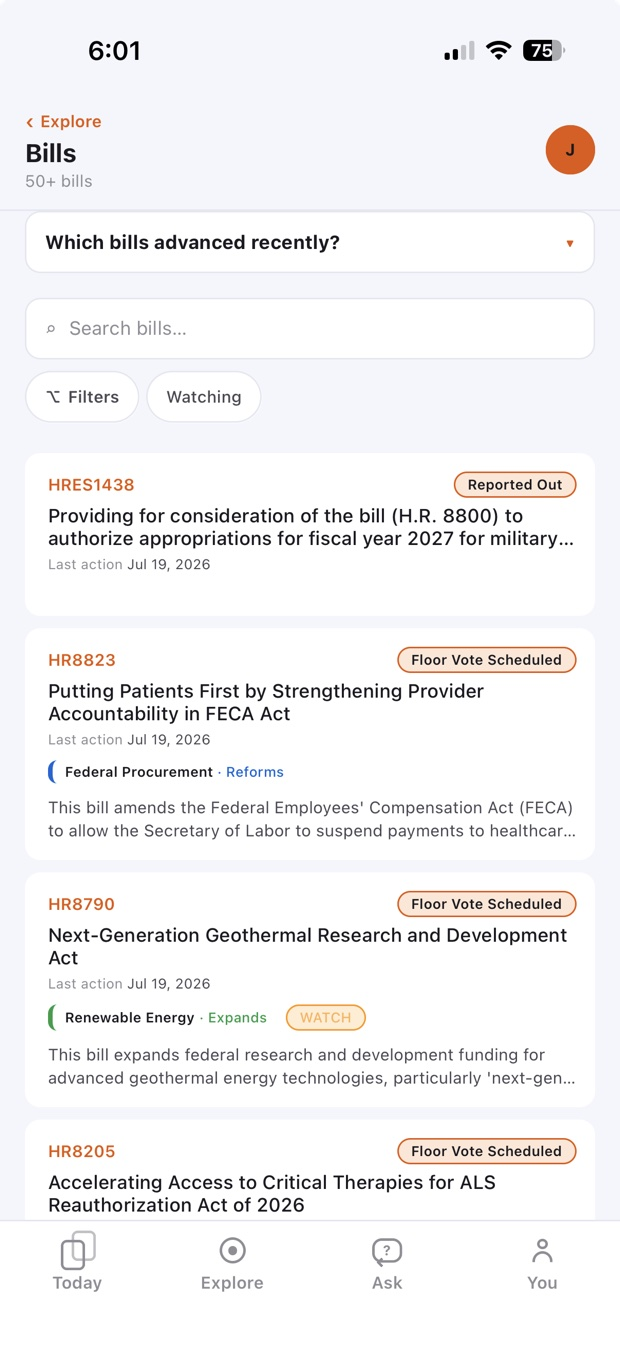
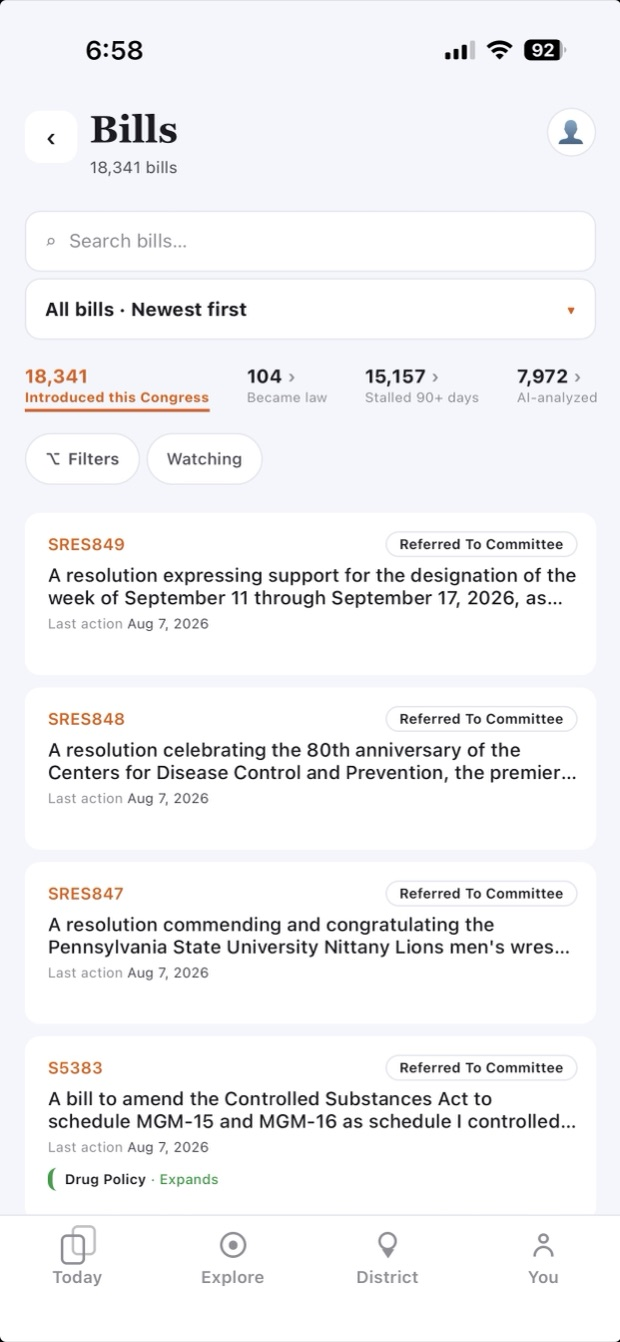
Refresh app screenshots with updated UI
Replace the six-shot strip with nine screenshots from the current build.
The tab bar, Explore hub, bills browser, and bill detail all changed, so
the old shots no longer matched what someone downloads.

Adds screens the strip never covered: the plain-English summary panel,
roll-call votes, corporate PAC money, and the district view. Drops the
member-profile shot, which has no equivalent in the new UI and would have
read as stale next to the rest. Renames the Your Congress shot to match
the screen's current name.

All nine downscaled to 620px wide, matching the existing convention, so
the strip shares one aspect ratio and the captions stay aligned.

diff --git a/index.html b/index.html
@@ -123,33 +123,51 @@
       </figure>
       <figure class="phone">
         <div class="frame">
-          <img src="images/screenshot-your-congress.jpg" alt="QuorumCivic Your Congress dashboard for a Michigan district, with the user's three representatives, shortcuts to the House, Senate, bills, and committees, and a week-in-Congress recap noting members who traded near their own votes." loading="lazy" width="232">
-        </div>
-        <figcaption>Your representatives and the week in Congress, at a glance.</figcaption>
-      </figure>
-      <figure class="phone">
-        <div class="frame">
-          <img src="images/screenshot-bills-list.jpg" alt="QuorumCivic bill browser listing recent legislation such as the Next-Generation Geothermal Research and Development Act, with status badges like Floor Vote Scheduled and plain-English summaries." loading="lazy" width="232">
-        </div>
-        <figcaption>Browse and search the 119th Congress, bill by bill.</figcaption>
-      </figure>
-      <figure class="phone">
-        <div class="frame">
-          <img src="images/screenshot-swipe-card.jpg" alt="A QuorumCivic swipe card rating H.R. 9706, a facial recognition age-verification bill, as Mixed on a Helps-to-Harms scale." loading="lazy" width="232">
+          <img src="images/screenshot-swipe-card.jpg" alt="A QuorumCivic card rating S. 5223, the Insider Trading Prohibition bill, as Net good on a Helps-to-Harms scale, with shortcuts to watch the bill, read it, and see the people behind it." loading="lazy" width="232">
         </div>
         <figcaption>Quick reads on who a bill helps and who it harms.</figcaption>
       </figure>
       <figure class="phone">
         <div class="frame">
-          <img src="images/screenshot-bill-detail.jpg" alt="QuorumCivic bill detail for the Facial Recognition to Protect Children Act, showing the sponsor, a status timeline from introduced to signed, a plain-English summary of what it does, and a Helps-to-Harms reading." loading="lazy" width="232">
+          <img src="images/screenshot-bill-summary.jpg" alt="QuorumCivic's What it does panel, a plain-English summary of a bill barring trades made on nonpublic information obtained through early access to government officials' posts, with a link to the full bill text." loading="lazy" width="232">
+        </div>
+        <figcaption>Plain English first, with the full bill one tap away.</figcaption>
+      </figure>
+      <figure class="phone">
+        <div class="frame">
+          <img src="images/screenshot-explore-congress.jpg" alt="QuorumCivic Congress screen with search, 119th Congress totals of 18,341 bills, 104 became law, and $1.9B in PAC contributions, shortcuts to the House, Senate, bills, votes, PAC money, companies, and committees, and a recap of the week's bills and roll-call votes." loading="lazy" width="232">
+        </div>
+        <figcaption>Every member, bill, vote, and dollar, in one place.</figcaption>
+      </figure>
+      <figure class="phone">
+        <div class="frame">
+          <img src="images/screenshot-bills-list.jpg" alt="QuorumCivic bill browser listing 18,341 bills with search, sorting, and filters, counters for bills that became law, stalled 90 days or more, or have been analyzed, and cards showing each bill's status and last action." loading="lazy" width="232">
+        </div>
+        <figcaption>Browse and search the 119th Congress, bill by bill.</figcaption>
+      </figure>
+      <figure class="phone">
+        <div class="frame">
+          <img src="images/screenshot-bill-detail.jpg" alt="QuorumCivic bill detail for H.R. 5366, a disaster tax relief bill, showing the sponsor, a status timeline from introduced to signed, a plain-English summary of what it does, and how we read the bill." loading="lazy" width="232">
         </div>
         <figcaption>Plain-English bill analysis: what it does, where it stands, how we read it.</figcaption>
       </figure>
       <figure class="phone">
         <div class="frame">
-          <img src="images/screenshot-member-profile.jpg" alt="QuorumCivic member profile for Representative Debbie Dingell, with a plain-English brief of the member's legislative record and follow-the-thread stats on trades and missed votes." loading="lazy" width="232">
+          <img src="images/screenshot-votes.jpg" alt="QuorumCivic votes screen showing 1,535 roll calls this Congress split between House and Senate, the share of member-votes cast with their own party, how many were decided by a single vote, and recent roll calls with their tallies." loading="lazy" width="232">
         </div>
-        <figcaption>Every member's record, built from public votes, trades, and filings.</figcaption>
+        <figcaption>Every recorded floor vote, including the ones decided by one.</figcaption>
+      </figure>
+      <figure class="phone">
+        <div class="frame">
+          <img src="images/screenshot-companies.jpg" alt="QuorumCivic companies screen showing corporate PAC contributions to sitting members split by party, companies that gave to both parties, and totals for PAC money given against federal contracts received." loading="lazy" width="232">
+        </div>
+        <figcaption>PAC money and federal contracts, laid side by side.</figcaption>
+      </figure>
+      <figure class="phone">
+        <div class="frame">
+          <img src="images/screenshot-your-district.jpg" alt="QuorumCivic district screen for Michigan's 6th, showing the user's representative and two senators alongside the federal races on the 2026 ballot, with each candidate's PAC receipts and outside spending." loading="lazy" width="232">
+        </div>
+        <figcaption>Your representatives, and what's on your ballot.</figcaption>
       </figure>
     </div>
   </section>
